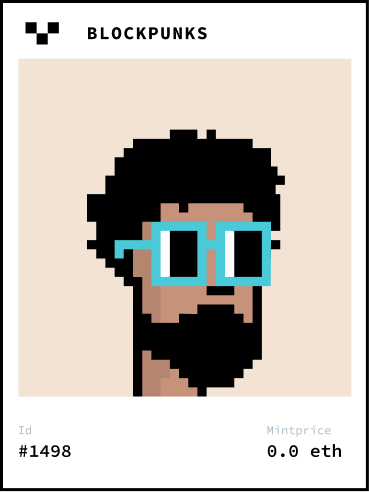
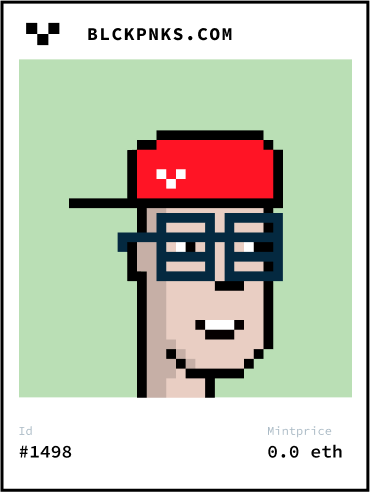
changed domain name and mint page look and feel

diff --git a/pages/mint.js b/pages/mint.js
@@ -11,8 +11,10 @@ const Mint = () => {
 				</div>
 			</div>
 			<div className="container grid grid-cols-1 laptop:grid-cols-2 items-stretch pt-24 gap-16">
-				<div className="flex flex-col laptop:justify-center order-2 laptop:order-1 z-30">
-					<h1 className="text-4xl font-bolder mb-8">Blockpunks - Collection of 7500 ERC721 Token</h1>
+				<div className="flex flex-col laptop:justify-center order-2 laptop:order-1 z-30 p-8">
+					<h1 className="text-4xl tablet:text-7xl mb-8">
+						<span className="font-medium">BLCKPNKS</span> - A collection of 7500 uniqe NFT
+					</h1>
 					<p>
 						Spacepunks NFT is inspired by leading Projects like{" "}
 						<span className="font-medium">@cryptopunksnft</span>,{" "}

diff --git a/components/Navbar.js b/components/Navbar.js
@@ -7,8 +7,8 @@ const Navbar = () => {
 		<div className="flex items-center justify-between px-4 py-2 fixed top-0 left-0 w-screen bg-black z-[90] border-b-[1px] border-solid border-slate-800">
 			<Link href="/">
 				<a className="flex items-center text-white">
-					<img src="/images/favicon.svg" alt="blockpunks.nft" />
-					<span className="hidden tablet:block font-medium tracking-wider uppercase ml-2">Blockpunks</span>
+					<img src="/images/favicon.svg" alt="thepunxs.xyz" />
+					<span className="hidden tablet:block font-medium tracking-wider ml-2">BLCKPNKS</span>
 				</a>
 			</Link>
 			<SearchForm />

diff --git a/components/Footerbar.js b/components/Footerbar.js
@@ -3,7 +3,7 @@ import Link from "next/link";
 const Footerbar = () => {
 	return (
 		<div className="flex items-center justify-between bg-black p-4 text-white text-sm">
-			<p>Copyright by blockpunks.nft - {new Date().getFullYear()}</p>
+			<p>Copyright by blckpnks.com - {new Date().getFullYear()}</p>
 
 			<div className="flex items-center justify-end gap-8">
 				<Link href="/profile">

diff --git a/layout/index.js b/layout/index.js
@@ -7,7 +7,7 @@ const Layout = ({ children }) => {
 	return (
 		<>
 			<Head>
-				<title>Blockpunks.nft</title>
+				<title>blckpnks.com</title>
 				<link rel="icon" href="/images/favicon.svg" />
 				<link rel="preconnect" href="https://fonts.googleapis.com" />
 				<link rel="preconnect" href="https://fonts.gstatic.com" />
